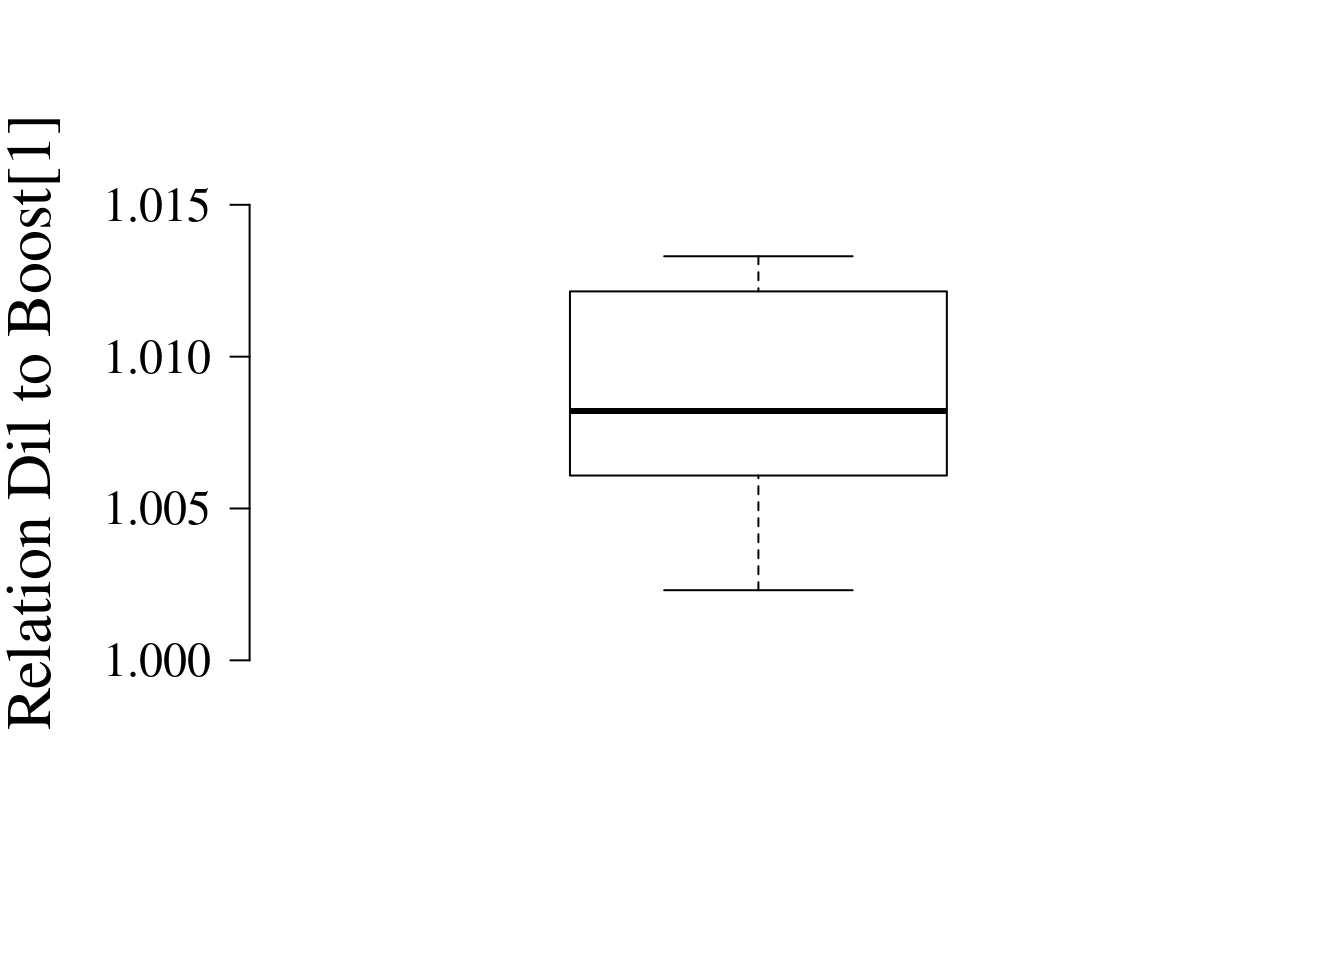
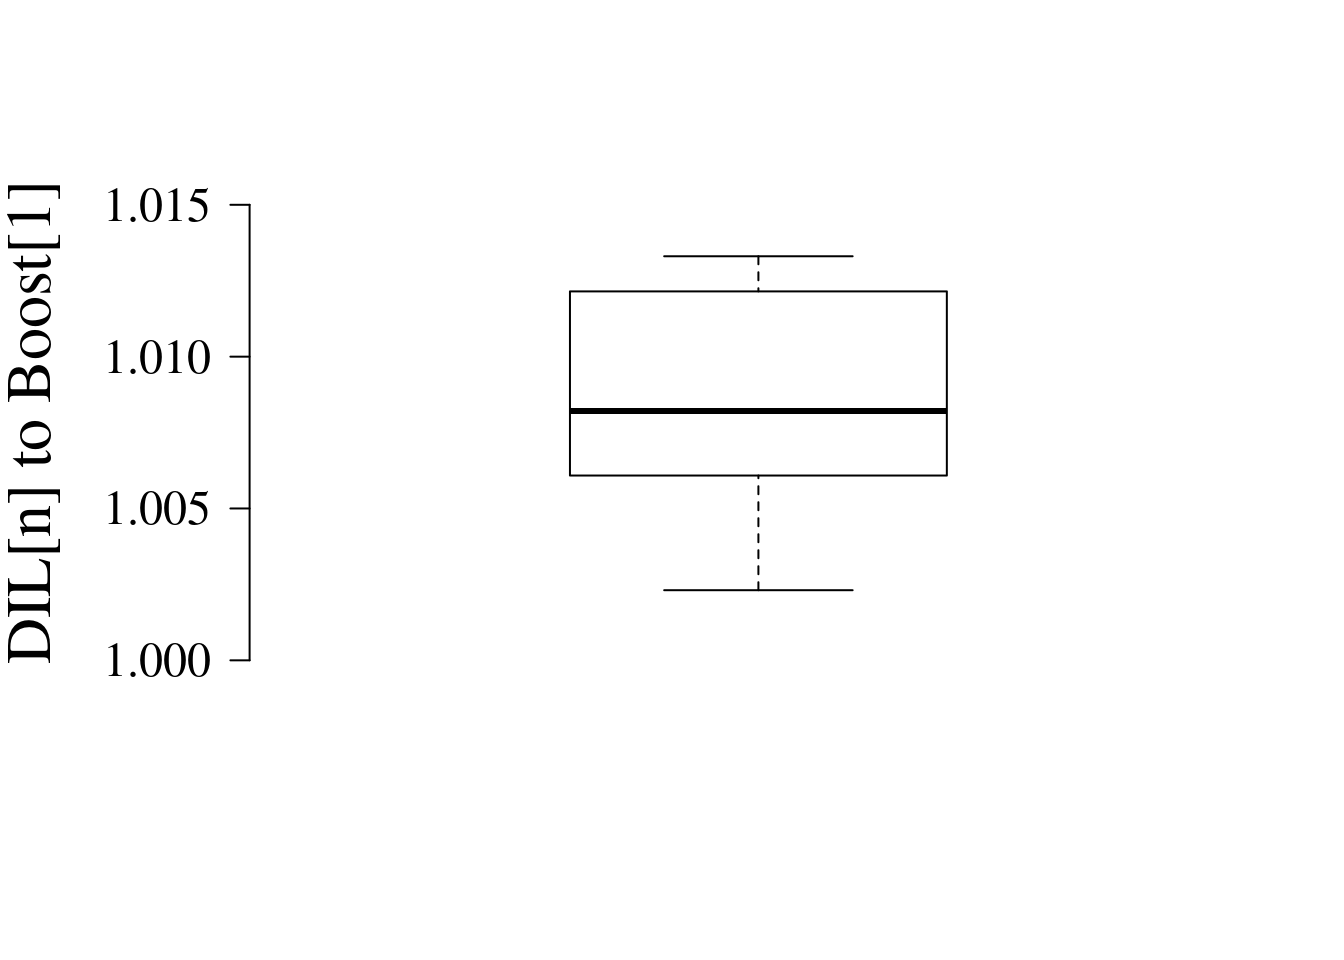
Build site.

Changed region(s): [[0.0, 0.125, 0.0625, 0.7812]]

diff --git a/docs/DILdurchBoost.html b/docs/DILdurchBoost.html
@@ -517,16 +517,16 @@ This reproducible <a href="http://rmarkdown.rstudio.com">R Markdown</a> analysis
 <div class="panel panel-default">
 <div class="panel-heading">
 <p class="panel-title">
-<a data-toggle="collapse" data-parent="#workflowr-checks" href="#strongRepositoryversionstrongahrefhttpsgithubcomdssrttnTesttreed2f9db1a3084272f76da8683d252f2b6ff2db2aetargetblankd2f9db1a"> <span class="glyphicon glyphicon-ok text-success" aria-hidden="true"></span> <strong>Repository version:</strong> <a href="https://github.com/dssrttn/Test/tree/d2f9db1a3084272f76da8683d252f2b6ff2db2ae" target="_blank">d2f9db1</a> </a>
+<a data-toggle="collapse" data-parent="#workflowr-checks" href="#strongRepositoryversionstrongahrefhttpsgithubcomdssrttnTesttree64f062d27c741417634ad7adf7117ff0ef90ee23targetblank64f062da"> <span class="glyphicon glyphicon-ok text-success" aria-hidden="true"></span> <strong>Repository version:</strong> <a href="https://github.com/dssrttn/Test/tree/64f062d27c741417634ad7adf7117ff0ef90ee23" target="_blank">64f062d</a> </a>
 </p>
 </div>
[2 lines of base64/hex data omitted]
 <div class="panel-body">
 <p>
 Great! You are using Git for version control. Tracking code development and connecting the code version to the results is critical for reproducibility.
 </p>
 <p>
-The results in this page were generated with repository version <a href="https://github.com/dssrttn/Test/tree/d2f9db1a3084272f76da8683d252f2b6ff2db2ae" target="_blank">d2f9db1</a>. See the <em>Past versions</em> tab to see a history of the changes made to the R Markdown and HTML files.
+The results in this page were generated with repository version <a href="https://github.com/dssrttn/Test/tree/64f062d27c741417634ad7adf7117ff0ef90ee23" target="_blank">64f062d</a>. See the <em>Past versions</em> tab to see a history of the changes made to the R Markdown and HTML files.
 </p>
 <p>
 Note that you need to be careful to ensure that all relevant files for the analysis have been committed to Git prior to generating the results (you can use <code>wflow_publish</code> or <code>wflow_git_commit</code>). workflowr only checks the R Markdown file, but you know if there are other scripts or data files that it depends on. Below is the status of the Git repository when the results were generated:
@@ -542,13 +542,6 @@ Ignored files:
 Untracked files:
     Untracked:  README.html
     Untracked:  analysis/allesineinem.Rmd
-    Untracked:  code/Boostrelchange.R
-    Untracked:  code/DILmeanboxplot.R
-    Untracked:  code/DILrelchange.R
-    Untracked:  code/HistogramBoostrelchange.R
-    Untracked:  code/HistogramDILrelchange.R
-    Untracked:  code/cbPalette.R
-    Untracked:  code/plottheme.R
     Untracked:  data/1/
     Untracked:  data/16/
     Untracked:  data/8/
@@ -601,6 +594,40 @@ Message
 </tr>
 </thead>
 <tbody>
+<tr>
+<td>
+Rmd
+</td>
+<td>
+<a href="https://github.com/dssrttn/Test/blob/64f062d27c741417634ad7adf7117ff0ef90ee23/analysis/DILdurchBoost.Rmd" target="_blank">64f062d</a>
+</td>
+<td>
+Mein Vorname
+</td>
+<td>
+2020-07-19
+</td>
+<td>
+csv in zweiten chunk
+</td>
+</tr>
+<tr>
+<td>
+html
+</td>
+<td>
+<a href="https://rawcdn.githack.com/dssrttn/Test/10f7b9064a7582d11c39bdc58e77ae0741085926/docs/DILdurchBoost.html" target="_blank">10f7b90</a>
+</td>
+<td>
+Mein Vorname
+</td>
+<td>
+2020-07-19
+</td>
+<td>
+Build site.
+</td>
+</tr>
 <tr>
 <td>
 Rmd
@@ -872,14 +899,15 @@ library(knitr)
 library(kableExtra)
 #options(digits=3) # zeigt nur drei Zahlenwerte an
 
-DIL_mean_boxplot &lt;- read_csv2(&#39;data/DIL_1.csv&#39;)</code></pre>
+DIL_mean_boxplot &lt;- read_csv2(&#39;data/DIL_1.csv&#39;)
+Boost_mean_boxplot &lt;- read_csv2(&#39;data/BoostA1n_1.csv&#39;)</code></pre>
 <pre class="r"><code>#max &lt;-max(DIL_mean_boxplot$Mittelwert)
 #min &lt;-min(DIL_mean_boxplot$Mittelwert)
 
-Boost_mean_boxplot &lt;- read_csv2(&#39;data/BoostA1n_1.csv&#39;)
 
 
-source(&quot;code/DILmeanboxplot.R&quot;)</code></pre>
+
+source(&quot;code/Boxplot_DIL_mean.R&quot;)</code></pre>
 <p><img src="figure/DILdurchBoost.Rmd/DIL%20Boxplot-1.png" width="672" style="display: block; margin: auto;" /></p>
 <p>
 <button type="button" class="btn btn-default btn-xs btn-workflowr btn-workflowr-fig" data-toggle="collapse" data-target="#fig-no-spaces-DIL-Boxplot-1">
@@ -941,7 +969,7 @@ Mein Vorname
 </div>
 </div>
 <pre class="r"><code>DIL_mean_rel_table %&gt;%
- knitr::kable(format =&#39;html&#39;, caption = &quot;&quot;, col.names = c(&quot;DIL durch boost_1&quot;, &quot;Numbers&quot;)) %&gt;%
+ knitr::kable(format =&#39;html&#39;, caption = &quot;&quot;, col.names = c(&quot;DIL to boost relation relative to the first fraction&quot;, &quot;Numbers&quot;)) %&gt;%
 kable_styling(bootstrap_options = c(&quot;striped&quot;, &quot;hover&quot;, &quot;condensed&quot;), full_width = FALSE) </code></pre>
 <table class="table table-striped table-hover table-condensed" style="width: auto !important; margin-left: auto; margin-right: auto;">
 <caption>
@@ -949,7 +977,7 @@ kable_styling(bootstrap_options = c(&quot;striped&quot;, &quot;hover&quot;, &quo
 <thead>
 <tr>
 <th style="text-align:left;">
-DIL durch boost_1
+DIL to boost relation relative to the first fraction
 </th>
 <th style="text-align:right;">
 Numbers
